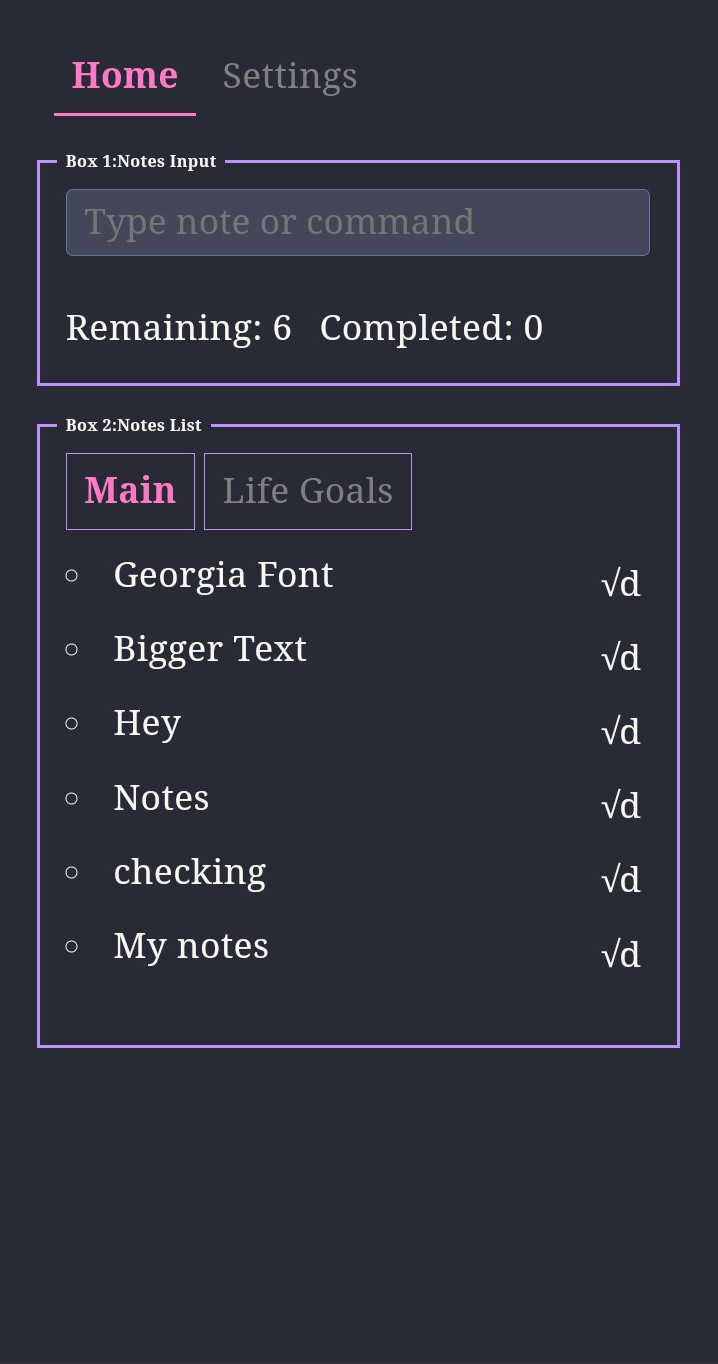
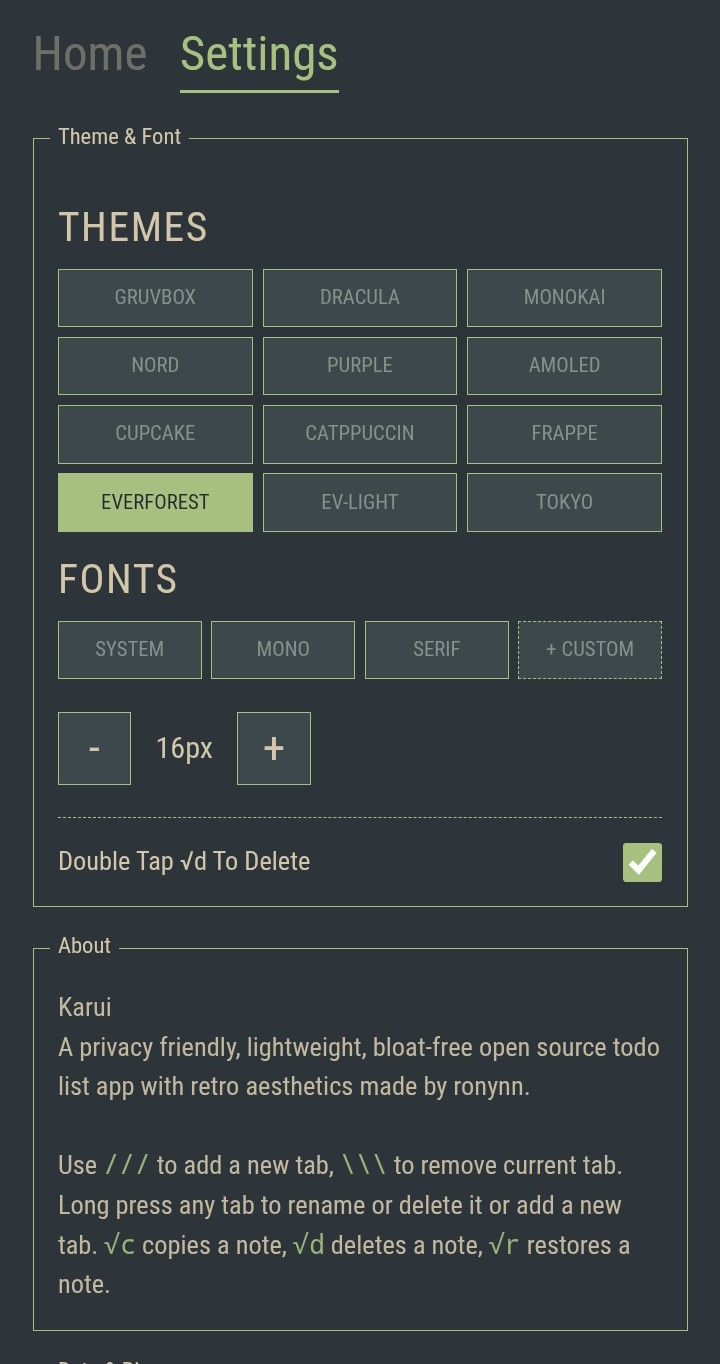
release the new tabs

Changed region(s): [[0.0306, 0.0308, 0.9499, 0.8006], [0.0919, 0.8314, 0.8886, 0.9545]]

diff --git a/app/src/main/assets/index.html b/app/src/main/assets/index.html
@@ -43,7 +43,7 @@ button:active { filter: brightness(0.8); }
 .theme-btn { padding: 10px 4px; background: var(--surface); color: var(--gray); border: 1px solid var(--border); text-transform: uppercase; font-size: 11px; font-weight: bold; white-space: nowrap; overflow: hidden; text-overflow: ellipsis; width: 100%; text-align: center; }
 .theme-btn.active { background: var(--accent); color: var(--accent-txt); }
 
-.heading-large { font-size: 22px; margin: 15px 0 10px; font-weight: normal; color: var(--text); letter-spacing: 1px; }
+.heading-large { font-size: 22px; margin: 15px 0 10px; font-weight: normal; color: var(--text); text-transform: uppercase; letter-spacing: 1px; }
 
 .note-item { display: flex; justify-content: space-between; align-items: flex-start; padding: 14px 0; background: var(--bg); cursor: pointer; transition: transform 0.2s, opacity 0.2s; position: relative; border-bottom: 1px dashed rgba(255,255,255,0.05); }
 .note-item span:first-of-type { flex: 1; position: relative; min-width: 0; white-space: normal; word-break: break-word; overflow: visible; padding-right: 10px; }
@@ -92,7 +92,7 @@ button:active { filter: brightness(0.8); }
   <div class="screen" id="settings-screen">
     <div class="box">
       <span class="box-title">Theme & Font</span>
-      <h2 class="heading-large">Themes</h2>
+      <h3 class="heading-large">Themes</h3>
       <div class="grid-btns" id="theme-btns">
         <button class="theme-btn" onclick="setTheme('gruvbox')">GRUVBOX</button>
         <button class="theme-btn" onclick="setTheme('dracula')">DRACULA</button>
@@ -108,7 +108,7 @@ button:active { filter: brightness(0.8); }
         <button class="theme-btn" onclick="setTheme('tokyo-night')">TOKYO</button>
       </div>
       
-      <h2 class="heading-large">Fonts</h2>
+      <h3 class="heading-large">Fonts</h3>
       <div style="display: flex; gap: 6px; flex-wrap: wrap;">
         <button class="theme-btn" style="width:auto; flex:1;" onclick="setFont('system-ui')">SYSTEM</button>
         <button class="theme-btn" style="width:auto; flex:1;" onclick="setFont('monospace')">MONO</button>
@@ -415,7 +415,20 @@ function bindLongPress(el, type) {
 }
 
 function moveDragImg(x, y) { if(dragImg) { dragImg.style.left = (x - 20) + 'px'; dragImg.style.top = (y - 20) + 'px'; } }
-function cleanDrag() { clearTimeout(touchTimer); if (dragTarget) dragTarget.classList.remove('ghost'); if (dragImg) { dragImg.remove(); dragImg = null; } dragTarget = null; dragType = null; }
+
+function cleanDrag() {
+  clearTimeout(touchTimer);
+  if (dragTarget && dragType === 'note') {
+    const ids = [...document.getElementById('notes-list').querySelectorAll('.note-item')].map(x => parseInt(x.dataset.id));
+    let currentCatNotes = ids.map(id => notes.find(x => x.id === id)).filter(Boolean);
+    let otherCatNotes = notes.filter(x => x.category !== activeCategory);
+    notes = [...currentCatNotes, ...otherCatNotes];
+    saveData();
+  }
+  if (dragTarget) dragTarget.classList.remove('ghost');
+  if (dragImg) { dragImg.remove(); dragImg = null; }
+  dragTarget = null; dragType = null;
+}
 
 function setupDragAndDrop() {
   document.getElementById('home-screen').addEventListener('touchmove', e => {
@@ -427,15 +440,6 @@ function setupDragAndDrop() {
     if (next) document.getElementById('notes-list').insertBefore(dragTarget, next);
     else document.getElementById('notes-list').appendChild(dragTarget);
   }, {passive:false});
-
-  document.getElementById('home-screen').addEventListener('touchend', () => {
-    if (!dragTarget || dragType !== 'note') return;
-    const ids = [...document.getElementById('notes-list').querySelectorAll('.note-item')].map(x => parseInt(x.dataset.id));
-    let currentCatNotes = ids.map(id => notes.find(x => x.id === id)).filter(Boolean);
-    let otherCatNotes = notes.filter(x => x.category !== activeCategory);
-    notes = [...currentCatNotes, ...otherCatNotes];
-    saveData();
-  });
 }
 
 function exportData() {

diff --git a/README.md b/README.md
@@ -12,13 +12,15 @@ Inspired by the system-24 theme and the Windows Mobile design system, this app's
 ## Screenshots
 
 <div align="center">
-  <img src="fastlane/metadata/android/en-US/images/phoneScreenshots/1.jpg" alt="Screenshot 1" width="45%" style="margin-right: 10px;">
+  <img src="fastlane/metadata/android/en-US/images/phoneScreenshots/1.jpg" alt="Screenshot 1" width="45%">
   
   <img src="fastlane/metadata/android/en-US/images/phoneScreenshots/2.jpg" alt="Screenshot 2" width="45%">
   
   <img src="fastlane/metadata/android/en-US/images/phoneScreenshots/3.jpg" alt="Screenshot 3" width="45%">
   
   <img src="fastlane/metadata/android/en-US/images/phoneScreenshots/4.jpg" alt="Screenshot 4" width="45%">
+  <img src="fastlane/metadata/android/en-US/images/phoneScreenshots/5.jpg" alt="Screenshot 5" width="45%">
+  <img src="fastlane/metadata/android/en-US/images/phoneScreenshots/6.jpg" alt="Screenshot 6" width="45%">
 </div>
 
 ## Features
@@ -43,6 +45,8 @@ This app is designed to operate entirely locally, with no cloud storage involved
 - Pressing √d deletes a note  it can be restored from recycle bin with √r, √e empties the recycle bin.
 - To add a new note tab, use the `///TabName` format.
 - To remove any tab (except the Main tab), use the `\\\TabName` format.
+- Long press any tab to rename or delete it, or add new tab.
+- Custom fonts are now supported.
 
 ## Releases
 
@@ -56,44 +60,44 @@ This app is designed to operate entirely locally, with no cloud storage involved
 
 ![Downloads (all time)](https://img.shields.io/badge/dynamic/json?url=https%3A%2F%2Fgithub.com%2Fkitswas%2Ffdroid-metrics-dashboard%2Fraw%2Frefs%2Fheads%2Fmain%2Fprocessed%2Ftotal%2Fio.github.ronynn.karui.json&query=%24.total_downloads&logo=fdroid&label=Downloads%20(all%20time))
 
-
-Downloads from f-droid.
-
-
-## Contact
-Github Issues are the fastest way to get in touch, for other means there's gitlab, bluesky, and my dev.to account, all linked in my account page on github and [homepage](https://ronynn.github.io).
-
 ## Licenses
 Karui is being developed under the GPLv3 License.
 
 ## Contributions
-Contributions are welcome, setting up takes nothing more than forking the project and utilising the github actions build setup. Currently I am porting the project from alpinejs to svelte, so I expect new contributions in svelte, but it's not a steadfast rule, I am still learning svelte and porting alpinejs based code so far hasn't feel like any hassle so far.
+Contributions are welcome, setting up takes nothing more than forking the project and utilising the github actions build setup
+~~Currently I am porting the project from alpinejs to svelte, so I expect new contributions in svelte, but it's not a steadfast rule, I am still learning svelte and porting alpinejs based code so far hasn't feel like any hassle so far.~~ The frontend is completely terse vanillajs at the moment.
 
 ## Roadmap
 
-- [ ] Get user feedback and suggestions to improve and expand the project scope.
-- [x] Fix import `.json` bugs.
-- [x] Enhance accessibility with larger touch areas.
-- [ ] Pivot control styled tab switcher
-- [ ] Gesture flick to change tabs
-- [ ] Resolve dynamic color issues (😔 still figuring this one out—maybe a short break is needed).
+- [x] Get user feedback and suggestions to improve and expand the project scope
+- [x] Fix import `.json` bugs
+- [x] Enhance accessibility with larger touch areas
+- [x] Pivot control styled tab switcher
+- [x] Gesture flick to change tabs
+- [x] Karui opening theme should be gruvbox?
+- [ ] Resolve dynamic color issues (😔 still figuring this one out—maybe a short break is needed)(i need a pc that can run android studio well, github workflows setup feels difficult to get this done)
 - [x] Font size settings
-- [ ] Letting user to select their own fonts from file picker
+- [x] Introduce more themes and font options.
+- [x] Make the UI more responsive for tablets and larger screens
+- [x] Letting user to select their own fonts from file picker
 - [x] Pressing active tab tries to do some animation (#bug)
-- [ ] Toggle option to use double tap √d to delete instead of a single tap.
-- [ ] Add translations.
-- [ ] Introduce more themes and font options.
-- [x] Make the UI more responsive for tablets and larger screens.
-- [ ] Develop widgets (e.g., Java fetching notes from localStorage, a static scrollable list of existing notes).
-- [ ] Explore cloud saving options without internet connection (piping to arcane chat? how would it sync?)
-- [ ] Integrate app data piping to Obsidian or a new notes app.
-- [ ] Add share intent functionality (to support QR apps that generate QR codes from text or `.json`).
-- [ ] Karui opening theme should be gruvbox?
-- [ ] Incorporate a QR library to generate QR codes from notes and read them using the system camera, facilitating easy note sharing between devices.
+- [x] Toggle option to use double tap √d to delete instead of a single tap
+
+Cancelled items from roadmap
+- [ ] Add translations (didn't face the need)
+- [ ] Develop widgets (e.g., Java fetching notes from localStorage, a static scrollable list of existing notes)(very difficult)
+- [ ] Explore cloud saving options without internet connection (piping to arcane chat? how would it sync?)(syncing will be too messy, just export json when changing phones)
+- [ ] Integrate app data piping to Obsidian or a new notes app (I dont use obsidian on android any more, too slow)
+- [ ] Add share intent functionality (to support QR apps that generate QR codes from text or `.json`) (qr is limited to 3kb at best, compressing todos to fit that feels odd and limited feature)
+- [ ] Incorporate a QR library to generate QR codes from notes and read them using the system camera, facilitating easy note sharing between devices. (qr too limited)
+
+
 
 ## Follow the Development
 
-Join us (well just my thought process and approach) on telegram: <https://t.me/+ExFFjoag-285OWJl>
+Join us (my thought process and approach with other's opinions) on telegram: <https://t.me/karuifoss>
 This app has been primarily made on my phone with Acode editor with alpine linux terminal.
+
+Github Issues are the fastest way to get in touch, for other means there's gitlab, bluesky, and my dev.to account, all linked in my account page on github and [homepage](https://ronynn.github.io).
 
 If you like the app, don't forget to leave a star ⭐ here on github and let me know your suggestions!